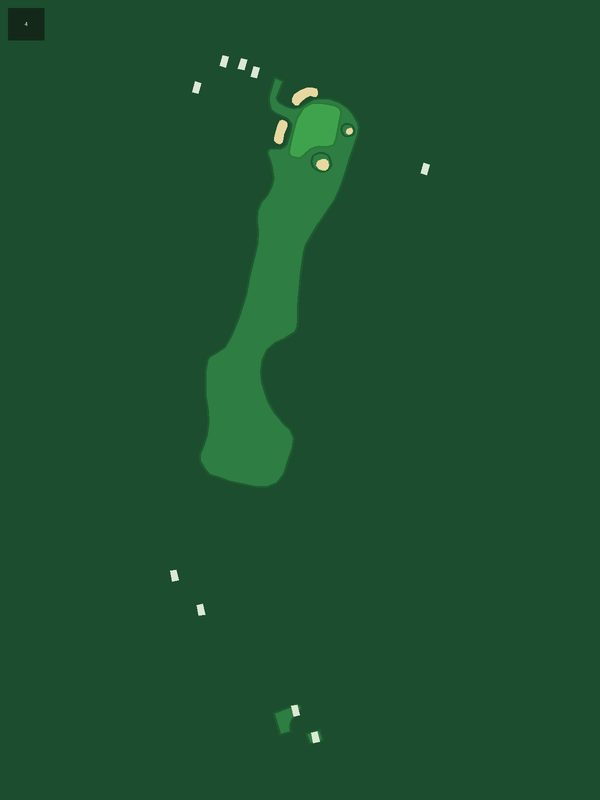
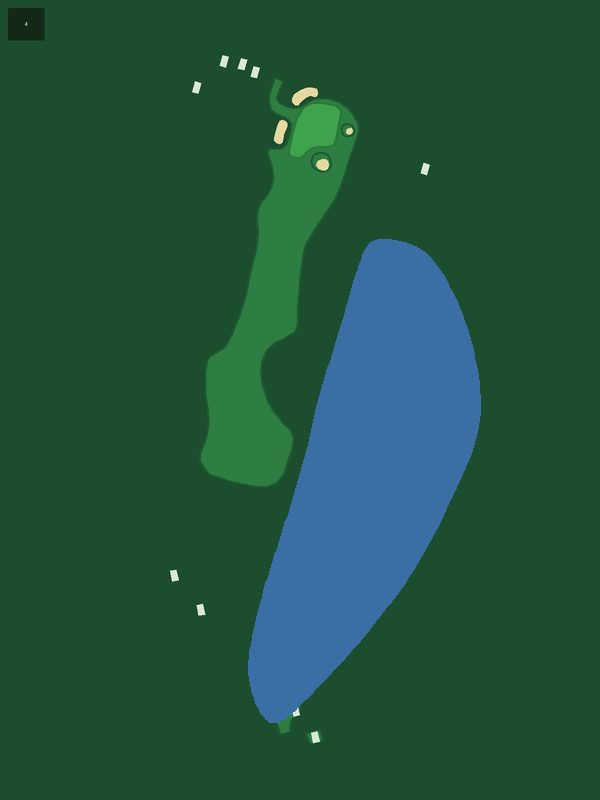
Yale Golf Course: add missing water hazards (H4 right lake, H9 front-right water) + 9 to-pin markers + distance scales (H3/H9/H13)

Changed region(s): [[0.39, 0.2812, 0.81, 0.9062]]

diff --git a/app/lib/widgets/hole_map_manifest.dart b/app/lib/widgets/hole_map_manifest.dart
@@ -394,17 +394,17 @@ const holeMapManifest = <String, Map<int, HoleMapAsset>>{
   'Yale Golf Course': {
     1: HoleMapAsset(par: 4, map: 'assets/hole_maps/yale-golf-course/1.jpg', mask: 'assets/hole_maps/yale-golf-course/1_mask.png', tee: Offset(0.361, 0.855), pin: Offset(0.359, 0.163), source: 'osm'),
     2: HoleMapAsset(par: 4, map: 'assets/hole_maps/yale-golf-course/2.jpg', mask: 'assets/hole_maps/yale-golf-course/2_mask.png', tee: Offset(0.513, 0.824), pin: Offset(0.513, 0.200), source: 'osm'),
-    3: HoleMapAsset(par: 4, map: 'assets/hole_maps/yale-golf-course/3.jpg', mask: 'assets/hole_maps/yale-golf-course/3_mask.png', tee: Offset(0.471, 0.836), pin: Offset(0.473, 0.170), source: 'osm'),
+    3: HoleMapAsset(par: 4, map: 'assets/hole_maps/yale-golf-course/3.jpg', mask: 'assets/hole_maps/yale-golf-course/3_mask.png', tee: Offset(0.471, 0.836), pin: Offset(0.473, 0.170), source: 'osm', yardsPerPixel: 0.77139, yardages: const [YardageMarker(offset: Offset(0.4367, 0.3211), yards: 95), YardageMarker(offset: Offset(0.4823, 0.6159), yards: 276)]),
     4: HoleMapAsset(par: 4, map: 'assets/hole_maps/yale-golf-course/4.jpg', mask: 'assets/hole_maps/yale-golf-course/4_mask.png', tee: Offset(0.526, 0.922), pin: Offset(0.525, 0.161), source: 'osm'),
     5: HoleMapAsset(par: 3, map: 'assets/hole_maps/yale-golf-course/5.jpg', mask: 'assets/hole_maps/yale-golf-course/5_mask.png', tee: Offset(0.451, 0.901), pin: Offset(0.439, 0.260), source: 'osm'),
     6: HoleMapAsset(par: 4, map: 'assets/hole_maps/yale-golf-course/6.jpg', mask: 'assets/hole_maps/yale-golf-course/6_mask.png', tee: Offset(0.404, 0.921), pin: Offset(0.408, 0.108), source: 'osm'),
     7: HoleMapAsset(par: 4, map: 'assets/hole_maps/yale-golf-course/7.jpg', mask: 'assets/hole_maps/yale-golf-course/7_mask.png', tee: Offset(0.451, 0.921), pin: Offset(0.448, 0.202), source: 'osm'),
     8: HoleMapAsset(par: 4, map: 'assets/hole_maps/yale-golf-course/8.jpg', mask: 'assets/hole_maps/yale-golf-course/8_mask.png', tee: Offset(0.480, 0.923), pin: Offset(0.480, 0.188), source: 'osm'),
-    9: HoleMapAsset(par: 3, map: 'assets/hole_maps/yale-golf-course/9.jpg', mask: 'assets/hole_maps/yale-golf-course/9_mask.png', tee: Offset(0.493, 0.917), pin: Offset(0.491, 0.202), source: 'osm'),
+    9: HoleMapAsset(par: 3, map: 'assets/hole_maps/yale-golf-course/9.jpg', mask: 'assets/hole_maps/yale-golf-course/9_mask.png', tee: Offset(0.493, 0.917), pin: Offset(0.491, 0.202), source: 'osm', yardsPerPixel: 0.37238, yardages: const [YardageMarker(offset: Offset(0.5904, 0.3272), yards: 43), YardageMarker(offset: Offset(0.3947, 0.3666), yards: 54), YardageMarker(offset: Offset(0.5055, 0.6794), yards: 142)]),
     10: HoleMapAsset(par: 4, map: 'assets/hole_maps/yale-golf-course/10.jpg', mask: 'assets/hole_maps/yale-golf-course/10_mask.png', tee: Offset(0.450, 0.879), pin: Offset(0.451, 0.201), source: 'osm'),
     11: HoleMapAsset(par: 4, map: 'assets/hole_maps/yale-golf-course/11.jpg', mask: 'assets/hole_maps/yale-golf-course/11_mask.png', tee: Offset(0.532, 0.923), pin: Offset(0.526, 0.226), source: 'osm'),
     12: HoleMapAsset(par: 4, map: 'assets/hole_maps/yale-golf-course/12.jpg', mask: 'assets/hole_maps/yale-golf-course/12_mask.png', tee: Offset(0.489, 0.924), pin: Offset(0.490, 0.226), source: 'osm'),
-    13: HoleMapAsset(par: 3, map: 'assets/hole_maps/yale-golf-course/13.jpg', mask: 'assets/hole_maps/yale-golf-course/13_mask.png', tee: Offset(0.447, 0.829), pin: Offset(0.446, 0.158), source: 'osm'),
+    13: HoleMapAsset(par: 3, map: 'assets/hole_maps/yale-golf-course/13.jpg', mask: 'assets/hole_maps/yale-golf-course/13_mask.png', tee: Offset(0.447, 0.829), pin: Offset(0.446, 0.158), source: 'osm', yardsPerPixel: 0.42846, yardages: const [YardageMarker(offset: Offset(0.3374, 0.1363), yards: -9), YardageMarker(offset: Offset(0.5675, 0.1697), yards: -2), YardageMarker(offset: Offset(0.5473, 0.2537), yards: 30), YardageMarker(offset: Offset(0.4403, 0.2774), yards: 38)]),
     14: HoleMapAsset(par: 4, map: 'assets/hole_maps/yale-golf-course/14.jpg', mask: 'assets/hole_maps/yale-golf-course/14_mask.png', tee: Offset(0.559, 0.923), pin: Offset(0.560, 0.237), source: 'osm'),
     15: HoleMapAsset(par: 3, map: 'assets/hole_maps/yale-golf-course/15.jpg', mask: 'assets/hole_maps/yale-golf-course/15_mask.png', tee: Offset(0.408, 0.912), pin: Offset(0.411, 0.284), source: 'osm'),
     16: HoleMapAsset(par: 5, map: 'assets/hole_maps/yale-golf-course/16.jpg', mask: 'assets/hole_maps/yale-golf-course/16_mask.png', tee: Offset(0.509, 0.863), pin: Offset(0.507, 0.109), source: 'osm'),
